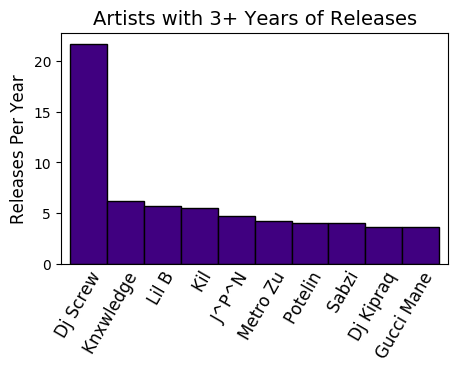
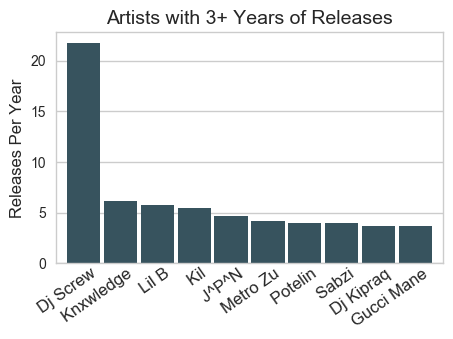
added whatcd roundup; navbar is fixed

Changed region(s): [[0.0, 0.0295, 0.989, 0.9735]]

diff --git a/blog/index.html b/blog/index.html
@@ -10,39 +10,38 @@ keywords: blog
 	#content #headtable{
 		width: 100%;
 	}
+	
+	.seasontable {
+		width: 100%;
+	}
 
+	.descriptioncell {
+		padding-left: 5px;
+	}
+	.descriptioncell:hover {
+		cursor: default;
+	}
+	
 	.typecell {
 		text-align: center;
 		text-transform: uppercase;
 		border: 1px solid;
 		border-radius: 5px;
 		padding: 3px 5px;
+		width: 3em;
 	}
-	
-	.descriptioncell {
-		padding-left: 5px;
-	}
-	.internalurl {
+
+	.code {background-color: #F9FBE7;}
+	.blog {background-color: #C8E6C9;}
+	.app {background-color: #F9FBE7;}
+	.data {background-color: #F9FBE7;}
+	.pdf {background-color: #E0F2F1;}
+
+	.internalurl a {
 		font-size: 0.5em;
-	}
-	.code {
-		background-color: #F9FBE7;
-	}
-
-	.blog {
-		background-color: #C8E6C9;
-	}
-
-	.app {
-		background-color: #F9FBE7;
-	}
-
-	.data {
-		background-color: #F9FBE7;
-	}
-
-	.pdf {
-		background-color: #E0F2F1;
+		float: right;
+		padding-left: 3px;
+		color: #B0BEC5;
 	}
 
 </style>
@@ -62,31 +61,35 @@ keywords: blog
 
     {% for season in season_groups %}
 	<h2>{{season.name}}</h2>
+
 	<table class="seasontable">
-	
+
+	<!-- iterate over rows -->
 	{% for item in season.items %}
+
 	<tr>
+
+	<!-- define item url -->
+	{% if item.type=='blog' %}
+		{% assign item_url = item.url %}
+	{% else %}
+		{% assign item_url = item.external_url %}
+	{% endif %}
 
 	<!-- indicator -->
 	<td class='typecell {{item.type}}'>
-
-
-			{% if item.type=='blog' %}
-				<a href="{{item.url}}">
-			{% else %}
-				<a href="{{item.external_url}}">
-			{% endif %}
-
-				{{item.type}}
-			</a>
+		<a href="{{item_url}}">{{item.type}}</a>
 	</td>
 
 	<!-- description -->
 	<td class="descriptioncell">
-		{{item.description}}
 
+		{{item.description}}
+		
 		{% if item.type != 'blog' %}
-		<span class="internalurl"><a href="{{item.url}}">[internal]</a></span>
+		<td class="internalurl">
+		<a href="{{item.url}}">[perma]</a>
+		</td>
 		{% endif %}
     </td>
 

diff --git a/css/style.css b/css/style.css
@@ -4,10 +4,11 @@
 body {
   color: #616161;
   font-family: 'Josefin Sans', sans-serif;
+  -webkit-text-size-adjust: 100%;
 }
 
 #container {
-  margin: auto;
+  margin: 4em auto;
   width: 100%;
   max-width: 800px;
   padding-bottom: 10px;
@@ -49,6 +50,15 @@ blockquote p {
   padding: 10px;
 }
 
+/* fix top part */
+#topper {
+  position: fixed;
+  top: 0; /* Position the navbar at the top of the page */
+  width: 100%;
+  max-width: 800px;
+  background-color: white;
+  z-index: 500;
+}
 
 /* Nav Bar */
 #navbar{

diff --git a/_includes/nav.html b/_includes/nav.html
@@ -1,3 +1,4 @@
+<div id="topper">
 <div id="navbar">
 <nav>
 	<ul>
@@ -9,6 +10,5 @@
 	</ul>
 </nav>
 </div>
-
+</div>
 <hr>
-

diff --git a/blog/assets/whatcd-roundup/analyses/prolific.artist.plot.py b/blog/assets/whatcd-roundup/analyses/prolific.artist.plot.py
@@ -3,6 +3,10 @@ import pandas as pd
 import numpy as np
 import matplotlib.pyplot as plt
 
+import seaborn as sns
+sns.set_style("whitegrid")
+sns.set_palette("GnBu_d")
+
 con = sqlite3.connect('data.db')
 torrents = pd.read_sql_query("SELECT * from torrents", con)
 tags = pd.read_sql_query("SELECT * from tags", con)
@@ -18,13 +22,12 @@ def plotbars(h, data, topn = 10):
     vals = data.sort_values(ascending = False)[:topn]
     
     # plotting
-    h.bar(xticks-0.5, vals, width = 1.0, color = [0.25,0,0.5], 
-    	linewidth = 1,edgecolor = 'k')
+    h.bar(xticks-0.5, vals, width = 0.9, linewidth = 1)
     h.set_xticks([])
     h.axis([-1.25, topn-0.75, 0, max(vals) + max(vals)*0.05])
     for j in range(topn):  
         h.text(xticks[j], 0, vals.index[j].title() + ' ', 
-            ha = 'right', va = 'top', rotation = 60, fontsize = 12)
+            ha = 'right', va = 'top', rotation = 35, fontsize = 12)
 
 # group by artist
 grouping = torrents.groupby('artist')
@@ -46,14 +49,16 @@ df = pd.DataFrame(dict(
 
 
 # plotting
-f, ax = plt.subplots(1, 2, figsize=(9, 3))
+f, ax = plt.subplots(1, 2, figsize=(8, 3))
 plotbars(ax[0], df.counts)
 ax[0].set_title('Cumulative Releases', fontsize = 14)
 
 plotbars(ax[1], df.peryear)
 ax[1].set_title('Releases Per Year', fontsize = 14)
 
-plt.savefig('../images/prolific-artists.png', bbox_inches = 'tight')
+
+plt.tight_layout()
+plt.savefig('../prolific-artists.png', bbox_inches = 'tight')
 
 
 
@@ -65,7 +70,4 @@ f, ax = plt.subplots(1, 1, figsize=(5, 3))
 plotbars(ax, df.peryear)
 ax.set_title('Artists with 3+ Years of Releases', fontsize = 14)
 ax.set_ylabel('Releases Per Year', fontsize = 12)
-plt.savefig('../images/prolific-artists-3plus.png', bbox_inches = 'tight')
-
-print ax
-
+plt.savefig('../prolific-artists-3plus.png', bbox_inches = 'tight')

diff --git a/blog/assets/whatcd-roundup/analyses/coast-timelines.plot.py b/blog/assets/whatcd-roundup/analyses/coast-timelines.plot.py
@@ -1,0 +1,59 @@
+import sqlite3
+import pandas as pd
+import numpy as np
+import matplotlib.pyplot as plt
+
+from scipy.signal import savgol_filter
+
+import seaborn as sns
+sns.set_style("whitegrid")
+
+flatui = ["#34495e", "#e74c3c", "#95a5a6"]
+sns.set_palette(flatui)
+
+# get the data...
+con = sqlite3.connect('data.db')
+tags = pd.read_sql_query('SELECT * from tags;', con)
+torrents = pd.read_sql_query('SELECT * from torrents;', con)
+con.close()
+
+# A list of tags associated with each region. These were handpicked but I think they are fair!
+coast_tags = {
+    'East Coast': ['new.york', 'east.coast','east.coast.rap'],
+    'West Coast': ['bay.area', 'los.angeles', 'west.coast', 'california'],
+    'Dirty South': ['dirty.south', 'southern', 'southern.rap','southern.hip.hop', 'new.orleans', 'houston', 'memphis', 'atlanta'],
+    }
+
+yearly_counts = pd.DataFrame(data = None, columns = ['Year'] + list(coast_tags.keys()))
+for year in range(1985, 2017):
+    ids = torrents.id.loc[torrents.groupYear==year]
+    yeartags = tags.loc[tags.id.isin(ids)]
+    
+    # create row for dataframe
+    row = dict(Year = year)
+    for k,v in coast_tags.items():
+        releases = yeartags.loc[yeartags.tag.isin(v), 'id']
+        row[k] = pd.unique(releases).shape[0]
+
+    # add row
+    yearly_counts = yearly_counts.append(row, ignore_index = True)
+
+
+fh = plt.figure(figsize=(8,3))
+for k in coast_tags.keys():
+
+	y = savgol_filter(yearly_counts[k],9,4)
+	plt.plot(yearly_counts.Year,y,'-',label=k)
+
+plt.ylabel('Hip Hop Releases')
+plt.gca().xaxis.grid(False)
+plt.xlim([1984.5,2016.5])
+
+leg = plt.legend(loc='upper left', frameon = True)
+
+
+plt.tight_layout()
+fh.savefig('../coast-timelines.png', bbox_inches = 'tight')
+
+
+

diff --git a/blog/assets/whatcd-roundup/analyses/hiphop-per-person.plot.py b/blog/assets/whatcd-roundup/analyses/hiphop-per-person.plot.py
@@ -1,0 +1,56 @@
+import sqlite3
+import pandas as pd
+import numpy as np
+import matplotlib.pyplot as plt
+
+import seaborn as sns
+sns.set_style("whitegrid")
+sns.set_palette("GnBu_d")
+
+# start connection to sqlite data, grab data, then close connection
+con = sqlite3.connect('data.db')
+tags = pd.read_sql_query('SELECT * from tags;', con)
+cities = pd.read_sql_query('SELECT * from cities;', con)
+con.close()
+
+# first, get the overall frequency of each tag
+tagfrequency = tags.tag.value_counts()
+
+# make tag frequency a dataframe, clean it up
+tagfrequency = tagfrequency.to_frame(name = 'frequency')
+tagfrequency['city'] = tagfrequency.index
+tagfrequency.reset_index(inplace = True, drop = True)
+
+# second, merge the tag frequency with each city in the database
+merged = pd.merge(cities, tagfrequency, on = 'city')
+merged['ratio'] = merged.frequency / (merged.population / 100000.0) 
+merged['logpop'] = np.log(merged.population + 1)
+
+
+fh, ax = plt.subplots(1, 2, figsize=(8, 3))
+
+h = ax[0]
+merged = merged.sort_values(by = 'frequency', ascending = False)
+h.bar(range(10), merged.iloc[0:10].frequency, 0.9)
+h.set_xlim([-0.6,9.6])
+h.set_xticks([])
+for i in range(10):
+    h.text(i+0.3, 0, merged.iloc[i].city, rotation = 35, va = 'top', ha = 'right')
+h.set_title('Total Hip Hop Releases')
+
+
+h = ax[1]
+merged = merged.sort_values(by = 'ratio', ascending = False)
+h.bar(range(10), merged.iloc[0:10].ratio, 0.9)
+h.set_xlim([-0.6,9.6])
+h.set_xticks([])
+for i in range(10):
+    h.text(i+0.3, 0, merged.iloc[i].city, rotation = 35, va = 'top', ha = 'right')
+h.set_title('Hip Hop Releases Per 100k People')
+
+
+plt.tight_layout()
+
+
+
+fh.savefig('../tags-per-person.png', bbox_inches = 'tight')

diff --git a/_posts/2017-4-14-whatcd-roundup.md b/_posts/2017-4-14-whatcd-roundup.md
@@ -1,6 +1,6 @@
 ---
 title: What.CD Hip Hop Roundup.
-description: What I've found through analyses of 75,000 torrents tagged 'hip.hop' on What.CD.
+description: What.CD Data Roundup! What I've found through analyses of 75,000 torrents tagged 'hip.hop'.
 keywords: gazelle, music, data
 season: Spring 2017
 assets: /blog/assets/whatcd-roundup
@@ -56,7 +56,7 @@ If you look at the overall number of releases (left), the list is dominated by w
 
  I think the "true" metric of hard work is in the number of releases per year. The cumulative total numbers favor artists with longer careers (hence, more time to make music) and penalize artists who have produced a lot of music in a shorter span of time. The dataset only offers a rough measurement of releases per year: each artist's total output, divided by the range of years the albums/mixtapes were released between. 
 
- These data (on the right) yield an entirely different picture. Dj Screw is still in the top spot, but his lead is not _crushingly_ huge. None of the other artists on the list are in the cumulative top 10. Likewise, excepting Dj Screw, nearly all of their music was released within the last couple of years. [Bruce Lee](https://brucelee315.bandcamp.com/), for example, released 20 mixtapes in 2016 (many of which were separate discs of the '_Dragon_' series). If you exclude artists with less than 3 years of activity, the listing looks a lot more like the cumulative total. Regardless, this pattern suggests that there's something of a new breed of proflific producers on the scene.
+ These data (on the right) yield an entirely different picture. Dj Screw is still in the top spot, but his lead is not _crushingly_ huge. None of the other artists on the list are in the cumulative top 10. Likewise, excepting Dj Screw, nearly all of their music was released within the last couple of years. [Bruce Lee](https://brucelee315.bandcamp.com/), for example, released 20 mixtapes in 2016 (many of which were separate discs of the '_Dragon_' series). If you exclude artists with less than 3 years of activity, the listing looks a lot more like the cumulative total. Regardless, this pattern suggests that there's something of a new breed of prolific producers on the scene.
 
 So who is the most prolific artist in hip hop? Obviously, the answer is **Dj Screw**.
 
@@ -65,7 +65,24 @@ So who is the most prolific artist in hip hop? Obviously, the answer is **Dj Scr
 </div>
 
 ## Where is hip hop coming from?
-<!-- citypop vs hip hop -->
+
+The whole reason why I went to the trouble of acquiring and analyzing this data was to satisfy a hunch. During the fall of 2016, I dug really deep into the [Hypnotize Minds](https://en.wikipedia.org/wiki/Hypnotize_Minds) catalog, and I felt that artists from of Memphis tended to be exceptionally prolific. In general, I has the sense that *a lot* of hip hop was coming out of Memphis, especially when you consider the city's small size (compared to places like New York, Los Angeles, etc).
+
+So I integrated [2010 census data](https://en.wikipedia.org/wiki/List_of_United_States_cities_by_population) from the 300-ish biggest cities in the United States, and massaged the data a little to conform to What.CD tagging practices (e.g., San Francisco is more commonly tagged under "bay.area"). The goal was to see which city makes the most hip-hop, relative to its population
+
+<p><img src="{{page.assets}}/tags-per-person.png"></p>
+
+I was close! Per person, New Orleans is the biggest producer of hip hop. Then Atlanta, then Memphis. Somewhat surprisingly, there's a big division between the cities that made the most hip hop total (the 'flagship' cities of hip hop music) and those that make the most per-person (big-but-not-*huge* cities, predominantly in the south). 
+
+Overall, these results say more about Southern hip hop than Memphis specifically: New York, Los Angeles, Chicago, and the Bay Area aren't even in the top 10, per-person. My fondness for Dirty South hip hop knows no bounds, so I followed this with a more systematic comparison between hip hop produced in the East Coast, West Coast, and Dirty South (Third Coast). So i combed through the data to pull out the main tags associated with hip hop from each region, and counted the releases over time.
+
+<p><img src="{{page.assets}}/coast-timelines.png"></p>
+
+The bump in the releases between 1994 and 1999 is concrete evidence of hip hop's 'golden age': in all three regions the amount of hip hop increases drastically, and the frequency from that period has not been matched since. The rise of the Dirty South is particularly notable: the region goes from essentially zero releases in the early 90's to producing more than the East and West coasts in the mid-90's.
+
+## Conclusions
+
+I'm still bummed about what's happened to What.CD, but I'm glad about having obtained this dataset before it was shut down. I don't think I've wrought out nearly everything that's in the data. If you want, [send me an email](mailto:nolanbconaway@gmail.com) with something you're curious about, or [check out the data](https://github.com/nolanbconaway/hip.hop.data) yourself!
 <!-- east vs west vs third coast -->
 
 

diff --git a/_posts/2016-12-15-xor-pbr.md b/_posts/2016-12-15-xor-pbr.md
@@ -1,5 +1,5 @@
 ---
-title: New PBR Paper out!
+title: New Paper Out in PB&R!
 description: Ken Kurtz and I published some of my graduate work in Psychonomic Bulletin & Review.
 keywords: exclusive-or, cognitive science
 season: Autumn 2016
